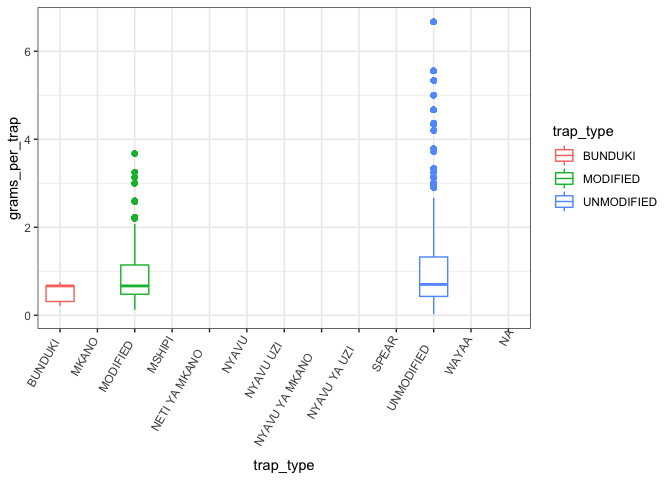
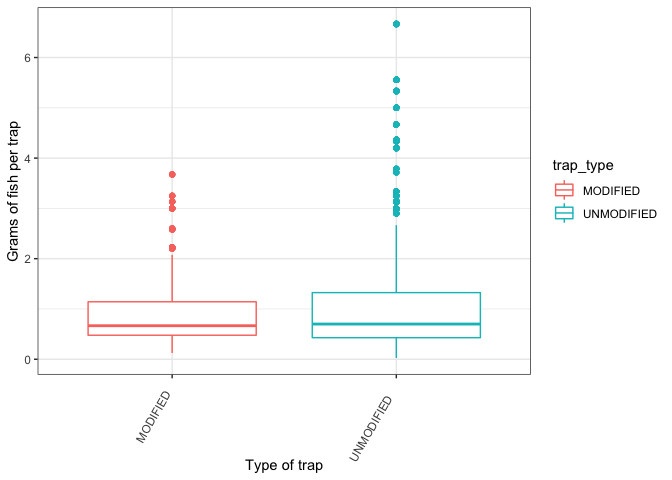
catch per unit effort

diff --git a/FishLandings/scripts/Analysis.md b/FishLandings/scripts/Analysis.md
@@ -63,10 +63,30 @@ data <- data %>% unite(survey_id, Operation_date, fisher_id, sep = " ") %>%
   mutate(total_catch = sum(number_of_fish),
          grams_per_trap = total_weight_kg/total_traps_collected)
 
-ggplot(data, aes(x=trap_type, y=grams_per_trap, color=trap_type)) + geom_boxplot() + theme_bw() + 
-   theme(axis.text.x = element_text(angle = 60, vjust = 1.1, hjust = 1.3)) #Set the text angle
+modified_trap_df <- data %>% subset(trap_type == "MODIFIED" | trap_type == "UNMODIFIED")
+
+modified_trap_df %>% 
+  ggplot(aes(x=trap_type, y=grams_per_trap, color=trap_type)) + geom_boxplot() + theme_bw() + 
+  ylab("Grams of fish per trap") + xlab("Type of trap") +
+  theme(axis.text.x = element_text(angle = 60, vjust = 1.1, hjust = 1.3)) #Set the text angle
 ```
 
-    ## Warning: Removed 4141 rows containing non-finite values (stat_boxplot).
+    ## Warning: Removed 231 rows containing non-finite values (stat_boxplot).
 
 ![](Analysis_files/figure-gfm/unnamed-chunk-3-1.png)<!-- -->
+
+``` r
+t.test(grams_per_trap~trap_type, data = modified_trap_df)
+```
+
+    ## 
+    ##  Welch Two Sample t-test
+    ## 
+    ## data:  grams_per_trap by trap_type
+    ## t = -2.9848, df = 2003.7, p-value = 0.002872
+    ## alternative hypothesis: true difference in means between group MODIFIED and group UNMODIFIED is not equal to 0
+    ## 95 percent confidence interval:
+    ##  -0.08549912 -0.01769500
+    ## sample estimates:
+    ##   mean in group MODIFIED mean in group UNMODIFIED 
+    ##                0.9033104                0.9549074
